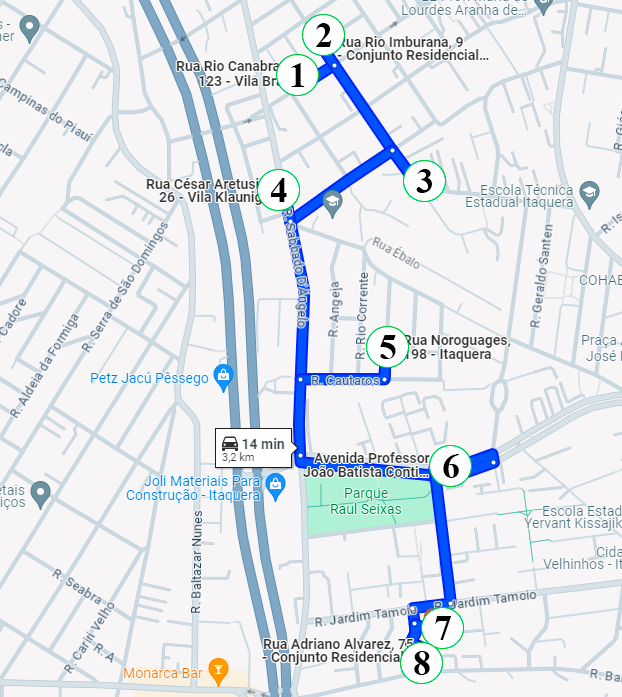
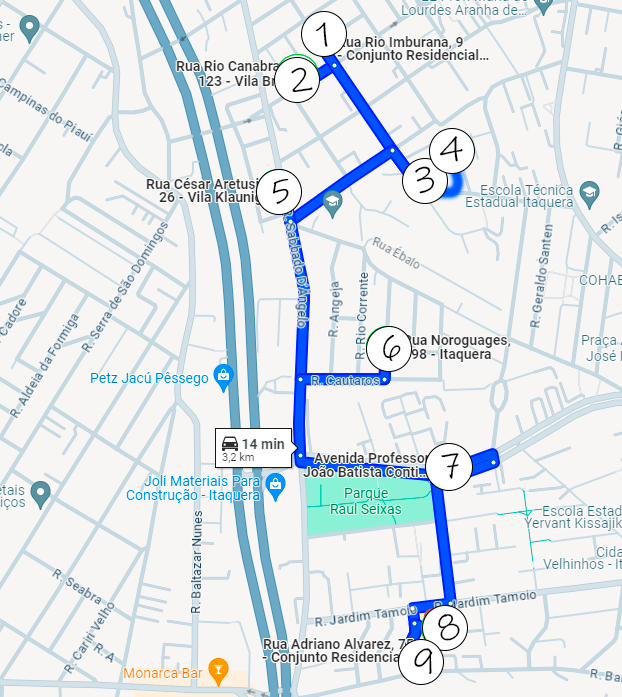
Atualizado endereço

diff --git a/a-itaquera/a3.html b/a-itaquera/a3.html
@@ -93,30 +93,37 @@
                 </tr>
                 <tr>
                     <td class="linha-verde">4</td>
+                    <td class="linha-verde">R. Rio Imburana, 320</td>
+                    <td class="linha-verde"></td>
+                    <td class="linha-verde"><a href="https://maps.app.goo.gl/rxYWwwbvMseougM86"><i
+                                class="bi bi-geo-alt-fill"></i></a></td>
+                </tr>
+                <tr>
+                    <td class="linha-verde">5</td>
                     <td class="linha-verde">R. César Aretusi, 26</td>
                     <td class="linha-verde"></td>
                     <td class="linha-verde"><a href="https://maps.app.goo.gl/8jq3pTWGnK2AgVyr9" target="_blank"><i class="bi bi-geo-alt-fill"></i></a></td>
                 </tr>
                 <tr>
-                    <td class="linha-verde">5</td>
+                    <td class="linha-verde">6</td>
                     <td class="linha-verde">Rua Bernardo Leon, 130</td>
                     <td class="linha-verde">AP 33 A</td>
                     <td class="linha-verde"><a href="https://maps.app.goo.gl/h7aKrJmD9C19nShe8" target="_blank"><i class="bi bi-geo-alt-fill"></i></a></td>
                 </tr>
                 <tr>
-                    <td class="linha-verde">6</td>
+                    <td class="linha-verde">7</td>
                     <td class="linha-verde">R. Adriano Alvarez, 55</td>
                     <td class="linha-verde">12 C</td>
                     <td class="linha-verde"><a href="https://maps.app.goo.gl/vMnSCJd9HzT67J697" target="_blank"><i class="bi bi-geo-alt-fill"></i></a></td>
                 </tr>
                 <tr>
-                    <td class="linha-verde">7</td>
+                    <td class="linha-verde">8</td>
                     <td class="linha-verde">R. Adriano Alvarez, 75</td>
                     <td class="linha-verde">Apto 112</td>
                     <td class="linha-verde"><a href="https://maps.app.goo.gl/QvUDMWHpbu2sFESk9" target="_blank"><i class="bi bi-geo-alt-fill"></i></a></td>
                 </tr>
                 <tr>
-                    <td class="linha-verde">8</td>
+                    <td class="linha-verde">9</td>
                     <td class="linha-verde">Rua Oswaldo Brandão, 158</td>
                     <td class="linha-verde"></td>
                     <td class="linha-verde"><a href="https://maps.app.goo.gl/FVGm7XabzmhF8wdj6" target="_blank"><i class="bi bi-geo-alt-fill"></i></a></td>

diff --git a/b-josebonifacio/b1.html b/b-josebonifacio/b1.html
@@ -82,13 +82,6 @@
                                 class="bi bi-geo-alt-fill"></i></a></td>
                 </tr>
                 <tr>
-                    <td class="linha-azul">2</td>
-                    <td class="linha-azul">R. Rio Imburana, 320</td>
-                    <td class="linha-azul"></td>
-                    <td class="linha-azul"><a href="https://maps.app.goo.gl/rxYWwwbvMseougM86"><i
-                                class="bi bi-geo-alt-fill"></i></a></td>
-                </tr>
-                <tr>
                     <td class="linha-azul">3</td>
                     <td class="linha-azul">R. Duarte Lobo, 83</td>
                     <td class="linha-azul">Condomínio Edifício Cinamomos I - 311</td>
